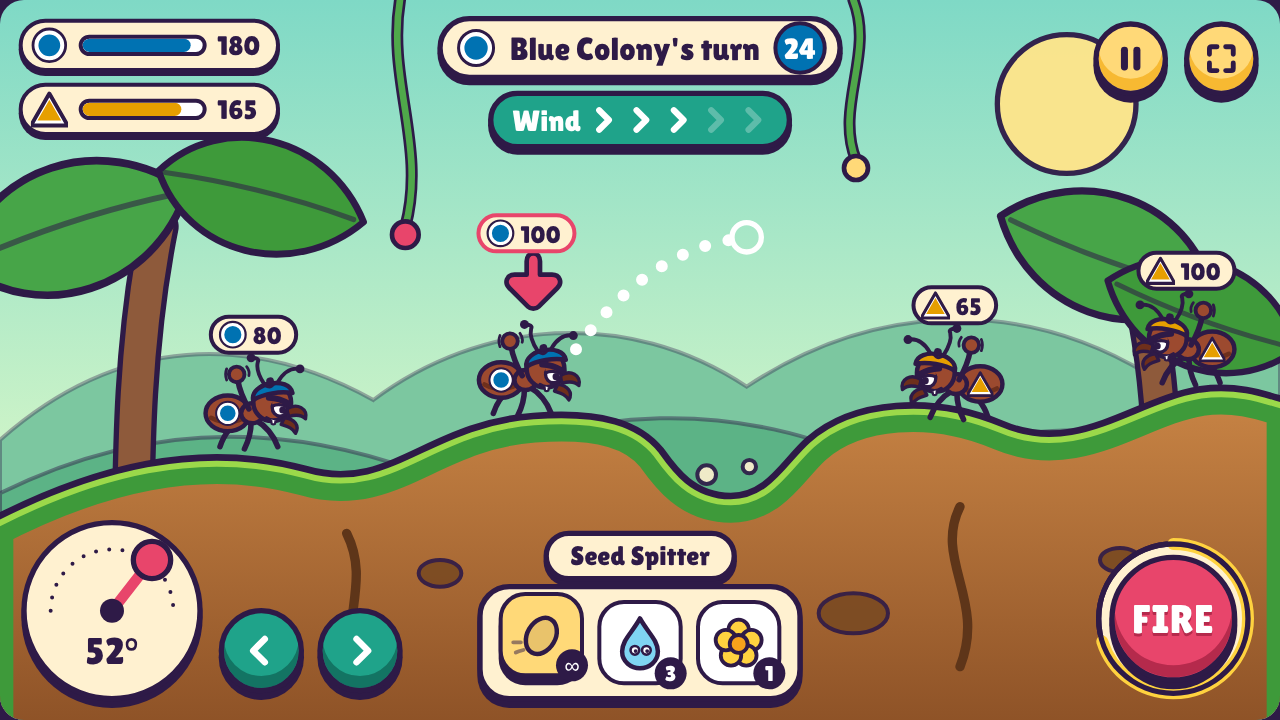
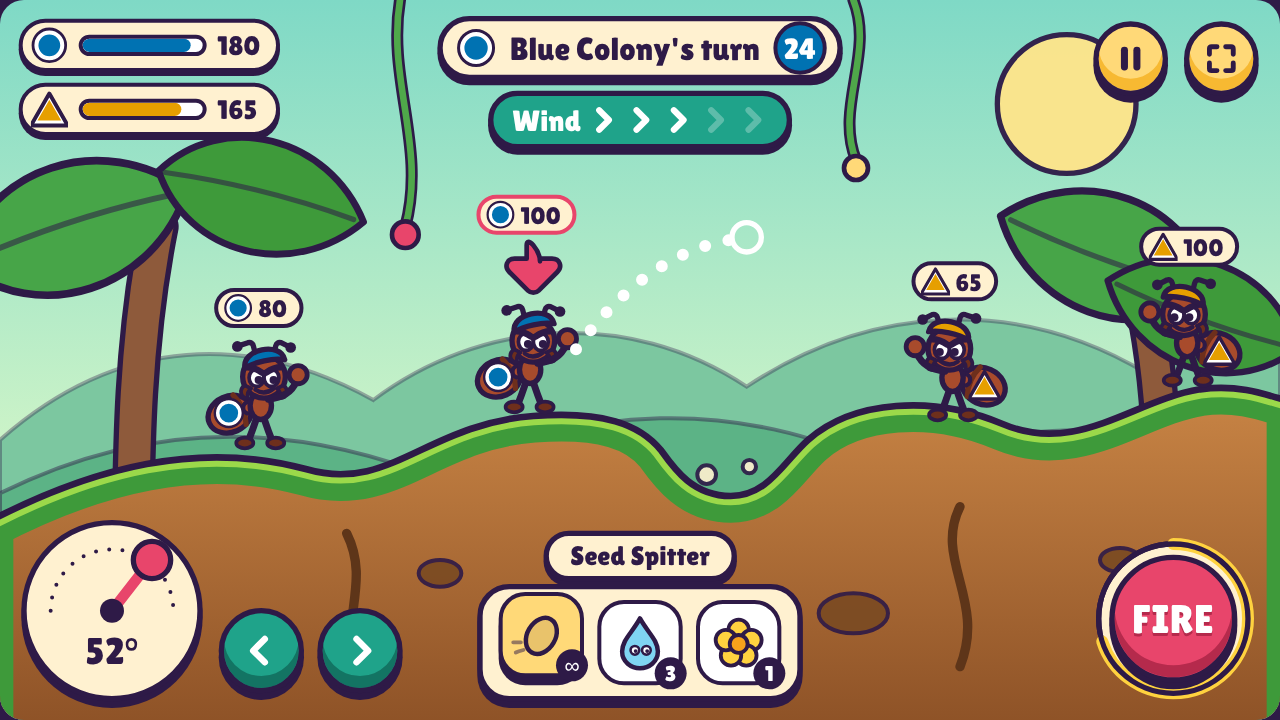
Checkpoint A rev 3: ant character rebuilt (DR-006), character sheet screen
Claude-Session: https://claude.ai/code/session_01MKXPHbSKZY5jit1FoDFsFH

diff --git a/preview/ui-preview.html b/preview/ui-preview.html
@@ -216,48 +216,94 @@ html,body{height:100%;background:var(--color-ink);overflow:hidden;overscroll-beh
       <circle cx="642" cy="126" r="9" fill="#FFD978" stroke="#2E1A47" stroke-width="3.5"/>
     </symbol>
 
-    <!-- Ant core: body uses --team for the acorn-cap helmet -->
-    <symbol id="ant-core" viewBox="0 0 96 84" overflow="visible">
-      <!-- rowdy: wide stance, shaking fist, dented tilted cap, scowl, big mandibles, chipped tooth grin (DR-005) -->
-      <g fill="none" stroke="#2E1A47" stroke-width="5" stroke-linecap="round">
-        <path d="M38,54 Q24,60 18,78"/><path d="M46,56 Q46,68 40,80"/><path d="M50,54 Q64,62 70,78"/>
+    <!-- ANT CHARACTER (DR-006): upright chibi, front-facing face, elbowed antennae,
+         pinched waist, striped gaster, symmetric side jaws. Two LODs share one silhouette. -->
+    <symbol id="ant-full" viewBox="0 0 100 110" overflow="visible">
+      <g fill="none" stroke="#2E1A47" stroke-linecap="round" stroke-linejoin="round">
+        <!-- middle legs -->
+        <path d="M50,68 Q40,72 36,82" stroke-width="4"/><path d="M62,68 Q72,74 74,82" stroke-width="4"/>
+        <!-- standing legs -->
+        <path d="M53,76 Q49,88 45,98" stroke-width="5"/><path d="M60,76 Q64,88 68,98" stroke-width="5"/>
       </g>
-      <ellipse cx="25" cy="48" rx="20" ry="16" fill="#9C4A2F" stroke="#2E1A47" stroke-width="4"/>
-      <path d="M10,52 Q25,60 40,52" fill="none" stroke="#6E2F1C" stroke-width="4" stroke-linecap="round"/>
-      <ellipse cx="47" cy="48" rx="10" ry="9" fill="#9C4A2F" stroke="#2E1A47" stroke-width="4"/>
-      <g fill="none" stroke="#2E1A47" stroke-width="3.5" stroke-linecap="round">
-        <path d="M58,22 Q50,10 52,2 Q54,-2 46,-2"/><path d="M70,20 Q78,6 90,8"/>
+      <ellipse cx="42" cy="99" rx="7" ry="4.5" fill="#6E2F1C" stroke="#2E1A47" stroke-width="3"/>
+      <ellipse cx="71" cy="99" rx="7" ry="4.5" fill="#6E2F1C" stroke="#2E1A47" stroke-width="3"/>
+      <!-- gaster with stripes -->
+      <g transform="rotate(-24 28 72)">
+        <ellipse cx="28" cy="72" rx="21" ry="17" fill="#A84B2C" stroke="#2E1A47" stroke-width="4"/>
+        <path d="M17,57 Q12,72 17,87" fill="none" stroke="#6E2F1C" stroke-width="4" stroke-linecap="round"/>
+        <path d="M38,57 Q44,72 38,87" fill="none" stroke="#6E2F1C" stroke-width="4" stroke-linecap="round"/>
       </g>
-      <circle cx="46" cy="-2" r="4" fill="#2E1A47"/><circle cx="90" cy="8" r="4" fill="#2E1A47"/>
-      <circle cx="65" cy="38" r="17" fill="#9C4A2F" stroke="#2E1A47" stroke-width="4"/>
-      <!-- mandibles -->
-      <path d="M78,44 C88,38 97,44 95,53 C91,49 86,49 80,51 Z" fill="#6E2F1C" stroke="#2E1A47" stroke-width="3" stroke-linejoin="round"/>
-      <path d="M76,52 C85,53 90,59 86,66 C83,61 79,60 73,58 Z" fill="#6E2F1C" stroke="#2E1A47" stroke-width="3" stroke-linejoin="round"/>
-      <!-- tilted acorn-cap helmet (team colour) with a dent -->
-      <g transform="rotate(-10 65 30)">
-        <path d="M47,33 C47,17 83,17 83,33 C73,29 57,29 47,33 Z" fill="var(--team)" stroke="#2E1A47" stroke-width="4" stroke-linejoin="round"/>
-        <path d="M60,22 Q64,26 68,22" fill="none" stroke="#2E1A47" stroke-width="2.5" stroke-linecap="round"/>
-        <circle cx="65" cy="19" r="3.5" fill="#2E1A47"/>
+      <!-- waist + thorax -->
+      <circle cx="46" cy="66" r="5.5" fill="#A84B2C" stroke="#2E1A47" stroke-width="3.5"/>
+      <ellipse cx="57" cy="64" rx="10" ry="13" fill="#A84B2C" stroke="#2E1A47" stroke-width="4"/>
+      <!-- hand on hip -->
+      <path d="M51,58 Q42,61 46,69" fill="none" stroke="#2E1A47" stroke-width="4.5" stroke-linecap="round"/>
+      <!-- elbowed antennae -->
+      <g fill="none" stroke="#2E1A47" stroke-width="3.5" stroke-linecap="round" stroke-linejoin="round">
+        <path d="M53,20 L50,8 Q49,4 45,5 L36,8"/><path d="M68,20 L71,8 Q72,4 76,5 L84,9"/>
       </g>
-      <!-- half-lidded eye + angry brow -->
-      <ellipse cx="72" cy="43" rx="7" ry="7.5" fill="#fff" stroke="#2E1A47" stroke-width="3"/>
-      <path d="M65,41 Q72,38 79,42 L79,36 L65,36 Z" fill="#9C4A2F"/>
-      <path d="M65,41.5 Q72,38.5 79,42.5" fill="none" stroke="#2E1A47" stroke-width="3" stroke-linecap="round"/>
-      <circle cx="74.5" cy="45" r="3.2" fill="#2E1A47"/>
-      <path d="M62,34 Q71,34 81,40" fill="none" stroke="#2E1A47" stroke-width="5.5" stroke-linecap="round"/>
-      <!-- smirk with tooth -->
-      <path d="M60,52 Q66,56 72,52" fill="none" stroke="#2E1A47" stroke-width="3" stroke-linecap="round"/>
-      <path d="M64,53.6 L64.5,57.5 Q66,58.5 67.5,57.5 L68,54.5" fill="#fff" stroke="#2E1A47" stroke-width="2" stroke-linejoin="round"/>
-      <!-- raised fist -->
-      <path d="M44,44 Q36,30 34,18" fill="none" stroke="#2E1A47" stroke-width="5" stroke-linecap="round"/>
-      <circle cx="33" cy="13" r="7" fill="#9C4A2F" stroke="#2E1A47" stroke-width="3.5"/>
-      <path d="M24,8 Q22,13 24,18 M42,6 Q45,10 44,14" fill="none" stroke="#2E1A47" stroke-width="2.5" stroke-linecap="round"/>
+      <circle cx="35" cy="8.5" r="4" fill="#2E1A47"/><circle cx="85" cy="9.5" r="4" fill="#2E1A47"/>
+      <!-- head -->
+      <circle cx="60" cy="37" r="20" fill="#A84B2C" stroke="#2E1A47" stroke-width="4"/>
+      <!-- side jaws (symmetric, not a beak) -->
+      <path d="M42,45 C36,49 38,57 45,57 C44,53 45,50 48,48 Z" fill="#6E2F1C" stroke="#2E1A47" stroke-width="3" stroke-linejoin="round"/>
+      <path d="M78,45 C84,49 82,57 75,57 C76,53 75,50 72,48 Z" fill="#6E2F1C" stroke="#2E1A47" stroke-width="3" stroke-linejoin="round"/>
+      <!-- eyes, angry brows -->
+      <ellipse cx="53" cy="38" rx="6" ry="7" fill="#fff" stroke="#2E1A47" stroke-width="2.8"/>
+      <ellipse cx="67" cy="38" rx="6" ry="7" fill="#fff" stroke="#2E1A47" stroke-width="2.8"/>
+      <circle cx="55" cy="39.5" r="3.2" fill="#2E1A47"/><circle cx="69" cy="39.5" r="3.2" fill="#2E1A47"/>
+      <path d="M45,29 Q51,29 58,33" fill="none" stroke="#2E1A47" stroke-width="4.5" stroke-linecap="round"/>
+      <path d="M62,33 Q69,29 75,29" fill="none" stroke="#2E1A47" stroke-width="4.5" stroke-linecap="round"/>
+      <!-- grin + chipped tooth -->
+      <path d="M52,48 Q60,54 69,47" fill="none" stroke="#2E1A47" stroke-width="3" stroke-linecap="round"/>
+      <path d="M58,50.6 L58.4,54.6 Q60,55.6 61.6,54.6 L62,50.8" fill="#fff" stroke="#2E1A47" stroke-width="2" stroke-linejoin="round"/>
+      <!-- dented acorn-cap helmet, tilted -->
+      <g transform="rotate(-12 60 21)">
+        <path d="M41,25 C41,7 79,7 79,25 C69,21 51,21 41,25 Z" fill="var(--team)" stroke="#2E1A47" stroke-width="4" stroke-linejoin="round"/>
+        <path d="M55,13 Q59,17 63,13" fill="none" stroke="#2E1A47" stroke-width="2.5" stroke-linecap="round"/>
+        <path d="M60,8 Q60,3 64,1" fill="none" stroke="#2E1A47" stroke-width="3.5" stroke-linecap="round"/>
+      </g>
+      <!-- raised fist (drawn in front) -->
+      <path d="M64,58 Q84,56 90,42" fill="none" stroke="#2E1A47" stroke-width="5" stroke-linecap="round"/>
+      <circle cx="92" cy="35" r="7.5" fill="#A84B2C" stroke="#2E1A47" stroke-width="3.5"/>
+      <path d="M102,27 Q105,34 102,41 M98,22 Q102,22 104,19" fill="none" stroke="#2E1A47" stroke-width="2.5" stroke-linecap="round"/>
+    </symbol>
+    <!-- small LOD (< ~90 px tall): no middle legs, no tooth, no motion lines; heavier strokes -->
+    <symbol id="ant-small" viewBox="0 0 100 110" overflow="visible">
+      <g fill="none" stroke="#2E1A47" stroke-linecap="round"><path d="M53,76 Q49,88 45,98" stroke-width="6.5"/><path d="M60,76 Q64,88 68,98" stroke-width="6.5"/></g>
+      <ellipse cx="42" cy="99" rx="8" ry="5" fill="#6E2F1C" stroke="#2E1A47" stroke-width="3.5"/>
+      <ellipse cx="71" cy="99" rx="8" ry="5" fill="#6E2F1C" stroke="#2E1A47" stroke-width="3.5"/>
+      <g transform="rotate(-24 28 72)">
+        <ellipse cx="28" cy="72" rx="21" ry="17" fill="#A84B2C" stroke="#2E1A47" stroke-width="5"/>
+        <path d="M38,57 Q44,72 38,87" fill="none" stroke="#6E2F1C" stroke-width="5" stroke-linecap="round"/>
+      </g>
+      <circle cx="46" cy="66" r="5.5" fill="#A84B2C" stroke="#2E1A47" stroke-width="4"/>
+      <ellipse cx="57" cy="64" rx="10" ry="13" fill="#A84B2C" stroke="#2E1A47" stroke-width="5"/>
+      <g fill="none" stroke="#2E1A47" stroke-width="5" stroke-linecap="round" stroke-linejoin="round">
+        <path d="M53,20 L50,8 Q49,4 45,5 L36,8"/><path d="M68,20 L71,8 Q72,4 76,5 L84,9"/>
+      </g>
+      <circle cx="35" cy="8.5" r="5" fill="#2E1A47"/><circle cx="85" cy="9.5" r="5" fill="#2E1A47"/>
+      <circle cx="60" cy="37" r="20" fill="#A84B2C" stroke="#2E1A47" stroke-width="5"/>
+      <path d="M42,45 C36,49 38,57 45,57 C44,53 45,50 48,48 Z" fill="#6E2F1C" stroke="#2E1A47" stroke-width="3.5" stroke-linejoin="round"/>
+      <path d="M78,45 C84,49 82,57 75,57 C76,53 75,50 72,48 Z" fill="#6E2F1C" stroke="#2E1A47" stroke-width="3.5" stroke-linejoin="round"/>
+      <ellipse cx="53" cy="38" rx="7" ry="8" fill="#fff" stroke="#2E1A47" stroke-width="3.5"/>
+      <ellipse cx="67" cy="38" rx="7" ry="8" fill="#fff" stroke="#2E1A47" stroke-width="3.5"/>
+      <circle cx="55" cy="40" r="3.8" fill="#2E1A47"/><circle cx="69" cy="40" r="3.8" fill="#2E1A47"/>
+      <path d="M44,28 Q51,28 58,33 M62,33 Q69,28 76,28" fill="none" stroke="#2E1A47" stroke-width="6" stroke-linecap="round"/>
+      <path d="M52,49 Q60,55 69,48" fill="none" stroke="#2E1A47" stroke-width="4" stroke-linecap="round"/>
+      <g transform="rotate(-12 60 21)">
+        <path d="M41,25 C41,7 79,7 79,25 C69,21 51,21 41,25 Z" fill="var(--team)" stroke="#2E1A47" stroke-width="5" stroke-linejoin="round"/>
+      </g>
+      <path d="M64,58 Q84,56 90,42" fill="none" stroke="#2E1A47" stroke-width="6.5" stroke-linecap="round"/>
+      <circle cx="92" cy="35" r="8.5" fill="#A84B2C" stroke="#2E1A47" stroke-width="4.5"/>
     </symbol>
     <!-- Team badges: shape + color (colorblind-safe, DR-003) -->
-    <symbol id="badge-a" viewBox="-12 -12 24 24"><circle r="8.5" fill="var(--prim-blue-500,#0072B2)" stroke="#fff" stroke-width="3"/><circle r="10.5" fill="none" stroke="#2E1A47" stroke-width="1.8"/></symbol>
+    <symbol id="badge-a" viewBox="-12 -12 24 24"><circle r="8.5" fill="#0072B2" stroke="#fff" stroke-width="3"/><circle r="10.5" fill="none" stroke="#2E1A47" stroke-width="1.8"/></symbol>
     <symbol id="badge-b" viewBox="-12 -12 24 24"><path d="M0,-7 L7.5,6 L-7.5,6 Z" fill="#E69F00" stroke="#E69F00" stroke-width="5" stroke-linejoin="round"/><path d="M0,-7 L7.5,6 L-7.5,6 Z" fill="none" stroke="#fff" stroke-width="2" stroke-linejoin="round" transform="scale(1.32) translate(0,.4)"/><path d="M0,-7 L7.5,6 L-7.5,6 Z" fill="none" stroke="#2E1A47" stroke-width="1.6" stroke-linejoin="round" transform="scale(1.58) translate(0,.6)"/></symbol>
-    <symbol id="ant-a" viewBox="0 0 96 84" overflow="visible"><g style="--team:#0072B2"><use href="#ant-core"/></g><use href="#badge-a" x="13" y="36" width="24" height="24"/></symbol>
-    <symbol id="ant-b" viewBox="0 0 96 84" overflow="visible"><g style="--team:#E69F00"><use href="#ant-core"/></g><use href="#badge-b" x="13" y="36" width="24" height="24"/></symbol>
+    <symbol id="ant-a" viewBox="0 0 100 110" overflow="visible"><g style="--team:#0072B2"><use href="#ant-full"/></g><use href="#badge-a" x="14" y="58" width="26" height="26"/></symbol>
+    <symbol id="ant-b" viewBox="0 0 100 110" overflow="visible"><g style="--team:#E69F00"><use href="#ant-full"/></g><use href="#badge-b" x="14" y="58" width="26" height="26"/></symbol>
+    <symbol id="ant-a-sm" viewBox="0 0 100 110" overflow="visible"><g style="--team:#0072B2"><use href="#ant-small"/></g><use href="#badge-a" x="12" y="56" width="30" height="30"/></symbol>
+    <symbol id="ant-b-sm" viewBox="0 0 100 110" overflow="visible"><g style="--team:#E69F00"><use href="#ant-small"/></g><use href="#badge-b" x="12" y="56" width="30" height="30"/></symbol>
 
     <!-- Weapon icons (DR-002) -->
     <symbol id="w-seed" viewBox="0 0 48 48"><ellipse cx="24" cy="25" rx="11" ry="15" transform="rotate(30 24 25)" fill="#E9C36B" stroke="#2E1A47" stroke-width="3.5"/><path d="M8,30 Q4,30 2,30 M10,36 Q6,37 4,38" stroke="#2E1A47" stroke-width="3" stroke-linecap="round" opacity=".5"/></symbol>
@@ -293,11 +339,11 @@ html,body{height:100%;background:var(--color-ink);overflow:hidden;overscroll-beh
     <path d="M-20,470 C80,420 180,410 280,440 C380,470 460,420 560,440 C660,460 760,430 980,450" fill="none" stroke="#3E9A3A" stroke-width="22" stroke-linecap="round" transform="translate(0,9)"/>
     <path d="M-20,470 C80,420 180,410 280,440 C380,470 460,420 560,440 C660,460 760,430 980,450" fill="none" stroke="#9BD94A" stroke-width="8" stroke-linecap="round" transform="translate(0,3)"/>
     <path d="M-20,470 C80,420 180,410 280,440 C380,470 460,420 560,440 C660,460 760,430 980,450" fill="none" stroke="#2E1A47" stroke-width="5" stroke-linecap="round"/>
-    <use href="#ant-a" x="120" y="350" width="104" height="91"/>
-    <g transform="translate(470,358) scale(-1,1)"><use href="#ant-b" x="0" y="0" width="104" height="91"/></g>
+    <use href="#ant-a" x="96" y="300" width="132" height="145"/>
+    <g transform="translate(520,306) scale(-1,1)"><use href="#ant-b" x="0" y="0" width="132" height="145"/></g>
     <!-- a seed mid-flight, comic arc -->
-    <path d="M226,372 C270,300 330,290 360,320" fill="none" stroke="#2E1A47" stroke-width="4" stroke-dasharray="0 14" stroke-linecap="round"/>
-    <use href="#w-seed" x="350" y="300" width="40" height="40"/>
+    <path d="M210,330 C250,270 320,262 350,300" fill="none" stroke="#2E1A47" stroke-width="4" stroke-dasharray="0 14" stroke-linecap="round"/>
+    <use href="#w-seed" x="342" y="282" width="40" height="40"/>
     <!-- LOGO -->
     <g transform="translate(60,46) rotate(-4)">
       <text x="0" y="150" font-family="Lilita One, Arial Rounded MT Bold, sans-serif" font-size="168" fill="#FFD23F" stroke="#2E1A47" stroke-width="22" stroke-linejoin="round" paint-order="stroke" letter-spacing="2">ANTS!</text>
@@ -336,22 +382,22 @@ html,body{height:100%;background:var(--color-ink);overflow:hidden;overscroll-beh
     <!-- crater puff remnants -->
     <g fill="#FFF1D0" stroke="#2E1A47" stroke-width="3" opacity=".9"><circle cx="530" cy="356" r="7"/><circle cx="562" cy="350" r="5"/></g>
     <!-- ants -->
-    <use href="#ant-a" x="150" y="270" width="80" height="70"/>
-    <use href="#ant-a" x="355" y="245" width="80" height="70"/>
-    <g transform="translate(756,248) scale(-1,1)"><use href="#ant-b" width="80" height="70"/></g>
-    <g transform="translate(930,222) scale(-1,1)"><use href="#ant-b" width="80" height="70"/></g>
+    <use href="#ant-a-sm" x="150" y="253" width="80" height="88"/>
+    <use href="#ant-a-sm" x="352" y="226" width="80" height="88"/>
+    <g transform="translate(760,232) scale(-1,1)"><use href="#ant-b-sm" width="80" height="88"/></g>
+    <g transform="translate(936,206) scale(-1,1)"><use href="#ant-b-sm" width="80" height="88"/></g>
     <!-- active marker -->
-    <path d="M395,196 C395,188 405,188 405,196 L405,206 L414,206 C420,206 422,212 418,216 L404,230 C402,232 398,232 396,230 L382,216 C378,212 380,206 386,206 L395,206 Z" fill="#E8456B" stroke="#2E1A47" stroke-width="3.5" stroke-linejoin="round"/>
+    <path d="M395,184 C395,176 405,188 405,196 L405,194 L414,194 C420,194 422,200 418,204 L404,218 C402,220 398,220 396,218 L382,204 C378,200 380,194 386,194 L395,194 Z" fill="#E8456B" stroke="#2E1A47" stroke-width="3.5" stroke-linejoin="round"/>
     <!-- aim preview: first part of arc only -->
     <path d="M432,262 C470,210 510,186 548,180" fill="none" stroke="#fff" stroke-width="9" stroke-dasharray="0 18" stroke-linecap="round"/>
     <path d="M432,262 C470,210 510,186 548,180" fill="none" stroke="#2E1A47" stroke-width="13" stroke-dasharray="0 18" stroke-linecap="round" opacity=".0"/>
     <circle cx="560" cy="178" r="11" fill="none" stroke="#fff" stroke-width="4"/>
   </svg>
   <!-- ant tags -->
-  <div class="tagant" style="left:190px;top:236px"><svg width="22" height="22"><use href="#badge-a"/></svg>80</div>
-  <div class="tagant" style="left:395px;top:160px;border-color:var(--color-action)"><svg width="22" height="22"><use href="#badge-a"/></svg>100</div>
-  <div class="tagant" style="left:716px;top:214px"><svg width="22" height="22"><use href="#badge-b"/></svg>65</div>
-  <div class="tagant" style="left:890px;top:188px"><svg width="22" height="22"><use href="#badge-b"/></svg>100</div>
+  <div class="tagant" style="left:194px;top:216px"><svg width="22" height="22"><use href="#badge-a"/></svg>80</div>
+  <div class="tagant" style="left:395px;top:146px;border-color:var(--color-action)"><svg width="22" height="22"><use href="#badge-a"/></svg>100</div>
+  <div class="tagant" style="left:716px;top:196px"><svg width="22" height="22"><use href="#badge-b"/></svg>65</div>
+  <div class="tagant" style="left:892px;top:170px"><svg width="22" height="22"><use href="#badge-b"/></svg>100</div>
 
   <div class="teams">
     <div class="teambar"><svg width="28" height="28"><use href="#badge-a"/></svg><div class="hp"><i style="width:90%;background:var(--color-team-a)"></i></div>180</div>
@@ -467,18 +513,39 @@ html,body{height:100%;background:var(--color-ink);overflow:hidden;overscroll-beh
       <!-- motion lines -->
       <g stroke="#2E1A47" stroke-width="5" stroke-linecap="round" opacity=".6"><path d="M360,90 Q380,92 396,90"/><path d="M350,140 Q372,142 392,138"/><path d="M800,180 Q818,176 836,178"/></g>
       <!-- startled ants -->
-      <use href="#ant-a" x="150" y="230" width="96" height="84"/>
-      <g transform="translate(320,236) scale(-1,1)"><use href="#ant-a" width="86" height="75"/></g>
+      <use href="#ant-a" x="146" y="210" width="96" height="106"/>
+      <g transform="translate(330,220) scale(-1,1)"><use href="#ant-a" width="86" height="95"/></g>
       <g stroke="#2E1A47" stroke-width="5" stroke-linecap="round"><path d="M206,212 Q208,200 206,190"/><path d="M228,220 Q238,210 244,198"/><path d="M186,218 Q176,208 172,198"/></g>
     </svg>
     <div class="panel caption"><b>Chapter 2 · The Clearing</b><span>One morning, the sky grew a shoe.</span></div>
-    <div class="bubble" style="left:56px;top:132px">Is that... a really big beetle?</div>
-    <svg style="position:absolute;left:150px;top:222px" width="60" height="40" viewBox="0 0 60 40"><path d="M8,0 C14,18 30,30 46,34 C34,24 32,14 34,0 Z" fill="#fff" stroke="#2E1A47" stroke-width="4" stroke-linejoin="round"/><path d="M10,-4 L36,-4" stroke="#fff" stroke-width="8"/></svg>
+    <div class="bubble" style="left:56px;top:118px">Is that... a really big beetle?</div>
+    <svg style="position:absolute;left:150px;top:200px" width="60" height="40" viewBox="0 0 60 40"><path d="M8,0 C14,18 30,30 46,34 C34,24 32,14 34,0 Z" fill="#fff" stroke="#2E1A47" stroke-width="4" stroke-linejoin="round"/><path d="M10,-4 L36,-4" stroke="#fff" stroke-width="8"/></svg>
   </div>
   <div class="comic-ui">
     <button class="jelly second" data-go="levels">Skip</button>
     <div class="cpips"><i class="on"></i><i></i><i></i><i></i></div>
     <button class="jelly" data-go="battle">Next<svg width="24" height="24" style="color:#fff"><use href="#i-next"/></svg></button>
+  </div>
+</section>
+
+
+<!-- ================= CHARACTER SHEET (DR-006 scale check) ================= -->
+<section class="screen" id="chars" data-screen="chars">
+  <svg class="bg" viewBox="0 0 960 540"><use href="#jungle"/>
+    <path d="M-20,470 C200,440 500,450 980,440 L980,560 L-20,560 Z" fill="url(#g-soil)" stroke="#2E1A47" stroke-width="5"/>
+    <use href="#ant-a" x="40" y="96" width="320" height="352"/>
+    <g transform="translate(640,170) scale(-1,1)"><use href="#ant-b" width="250" height="275"/></g>
+  </svg>
+  <div class="pill abs" style="left:50%;top:16px;transform:translateX(-50%);height:56px;font-size:30px">Meet the Colony</div>
+  <div class="panel abs" style="right:20px;top:96px;width:250px;padding:14px 16px">
+    <div style="font-family:var(--font-display);font-size:22px;margin-bottom:6px">Scale check</div>
+    <svg width="218" height="250" viewBox="0 0 218 250">
+      <use href="#ant-a" x="0" y="0" width="96" height="106"/><use href="#ant-b-sm" x="110" y="20" width="78" height="86"/>
+      <use href="#ant-a-sm" x="0" y="130" width="56" height="62"/><use href="#ant-b-sm" x="70" y="140" width="44" height="48"/><use href="#ant-a-sm" x="128" y="150" width="32" height="35"/>
+      <text x="0" y="122" font-family="Nunito" font-weight="800" font-size="15" fill="#2E1A47">full · 106px</text>
+      <text x="110" y="122" font-family="Nunito" font-weight="800" font-size="15" fill="#2E1A47">small · 86px</text>
+      <text x="0" y="214" font-family="Nunito" font-weight="800" font-size="15" fill="#2E1A47">62 · 48 · 35px</text>
+    </svg>
   </div>
 </section>
 

diff --git a/docs/DECISIONS.md b/docs/DECISIONS.md
@@ -62,7 +62,7 @@ Nothing appears in UI.md or PLAN.md without a Decision ID. Builder deviations ar
 - **Rejected:** keep (the user's feedback); replace (no accent earned its place yet).
 - **Revisit if:** buttons read as flat or unclickable in playtests. Then try a darker inner rim, not a white glint.
 
-## DR-005 · Ant character attitude (user edit, checkpoint A review)
+## DR-005 · Ant character attitude (user edit, checkpoint A review) — SUPERSEDED by DR-006
 - **Question:** How do we make the fighting ants feel rowdy while staying family-friendly?
 - **Options:** (1) facial attitude only (brow, smirk) · (2) full rowdy kit: scowl, half-lidded eye, big mandibles, chipped-tooth grin, shaking raised fist, dented and tilted acorn-cap helmet, wide stance · (3) battle gear (bandanas, slings, war paint)
 - **Debate:** GD: the raised fist makes a clear silhouette, so you can read their mood even at 80 px. AD: a dented cap tilted like a bad-boy beanie gives scrappy charm, while war paint pushes them toward "soldier". TL: everything stays inside one symbol and no extra textures are needed.
@@ -70,3 +70,16 @@ Nothing appears in UI.md or PLAN.md without a Decision ID. Builder deviations ar
 - **Reason:** It is clearly scrappy and funny without weapons-as-props or injuries (pillar 1), and it reads at phone size.
 - **Rejected:** (1) too subtle at small sizes; (3) more militaristic and busier, and it competes with the team badge.
 - **Revisit if:** faces turn to mush at the final in-game ant size. Then drop the tooth and keep the fist, brow and mandibles.
+
+## DR-006 · Ant character design, rebuilt from scratch (user edit: DR-005 read as "a bird with a beak" on small screens)
+- **Question:** Which ant body plan stays clearly an ant from a 35 px sprite up to a poster?
+- **Options:** (1) side-profile crawler with forward mandibles (DR-005) · (2) upright chibi with a front-facing face, elbowed antennae, pinched waist, striped gaster, symmetric side jaws · (3) four-legged 3/4 crawler with a big head
+- **Debate:** GD: in profile, the mandibles plus a single eye read as a beak, while two front-facing eyes and a grin read as a character and show attitude at any size. AD: the ant cues that survive shrinking are the elbowed antennae, the waist knot and the big striped gaster, and an upright chibi poses well for the poster, landing screen and comics. TL: one shared silhouette drawn at two levels of detail (full and small) means one rig and one atlas, with no per-size redraws.
+- **Winner:** (2) Upright chibi ant. Its defining features:
+  - **Ant cues:** elbowed antennae with round tips, a big round head (about 40% of height), a pinched waist knot, an oval thorax, and a large striped gaster tilted back.
+  - **Rowdy cues:** angry V-brows, a toothy grin with one chipped tooth, symmetric side jaws (never a forward point), a raised shaking fist drawn in front of the body, and a dented acorn-cap helmet tilted -12°.
+  - **Team identity:** helmet colour plus the badge shape on the gaster (blue circle, amber triangle).
+  - **LODs:** `full` for 90 px tall and up (poster, landing, comics); `small` below 90 px (in-game), with no middle legs, tooth or motion lines, heavier strokes and bigger eyes and badge.
+- **Reason:** It reads as an ant, and as rowdy, at 35, 48, 62, 86 and 300+ px (see `preview/chars-*.png`). The silhouette scales for poster and landing art.
+- **Rejected:** (1) the beak problem; (3) four legs on the ground hide the fist and face, and the head turns into a blob at small sizes.
+- **Revisit if:** in-game ants must shrink below 40 px, or animation rigging needs a different limb layout.
